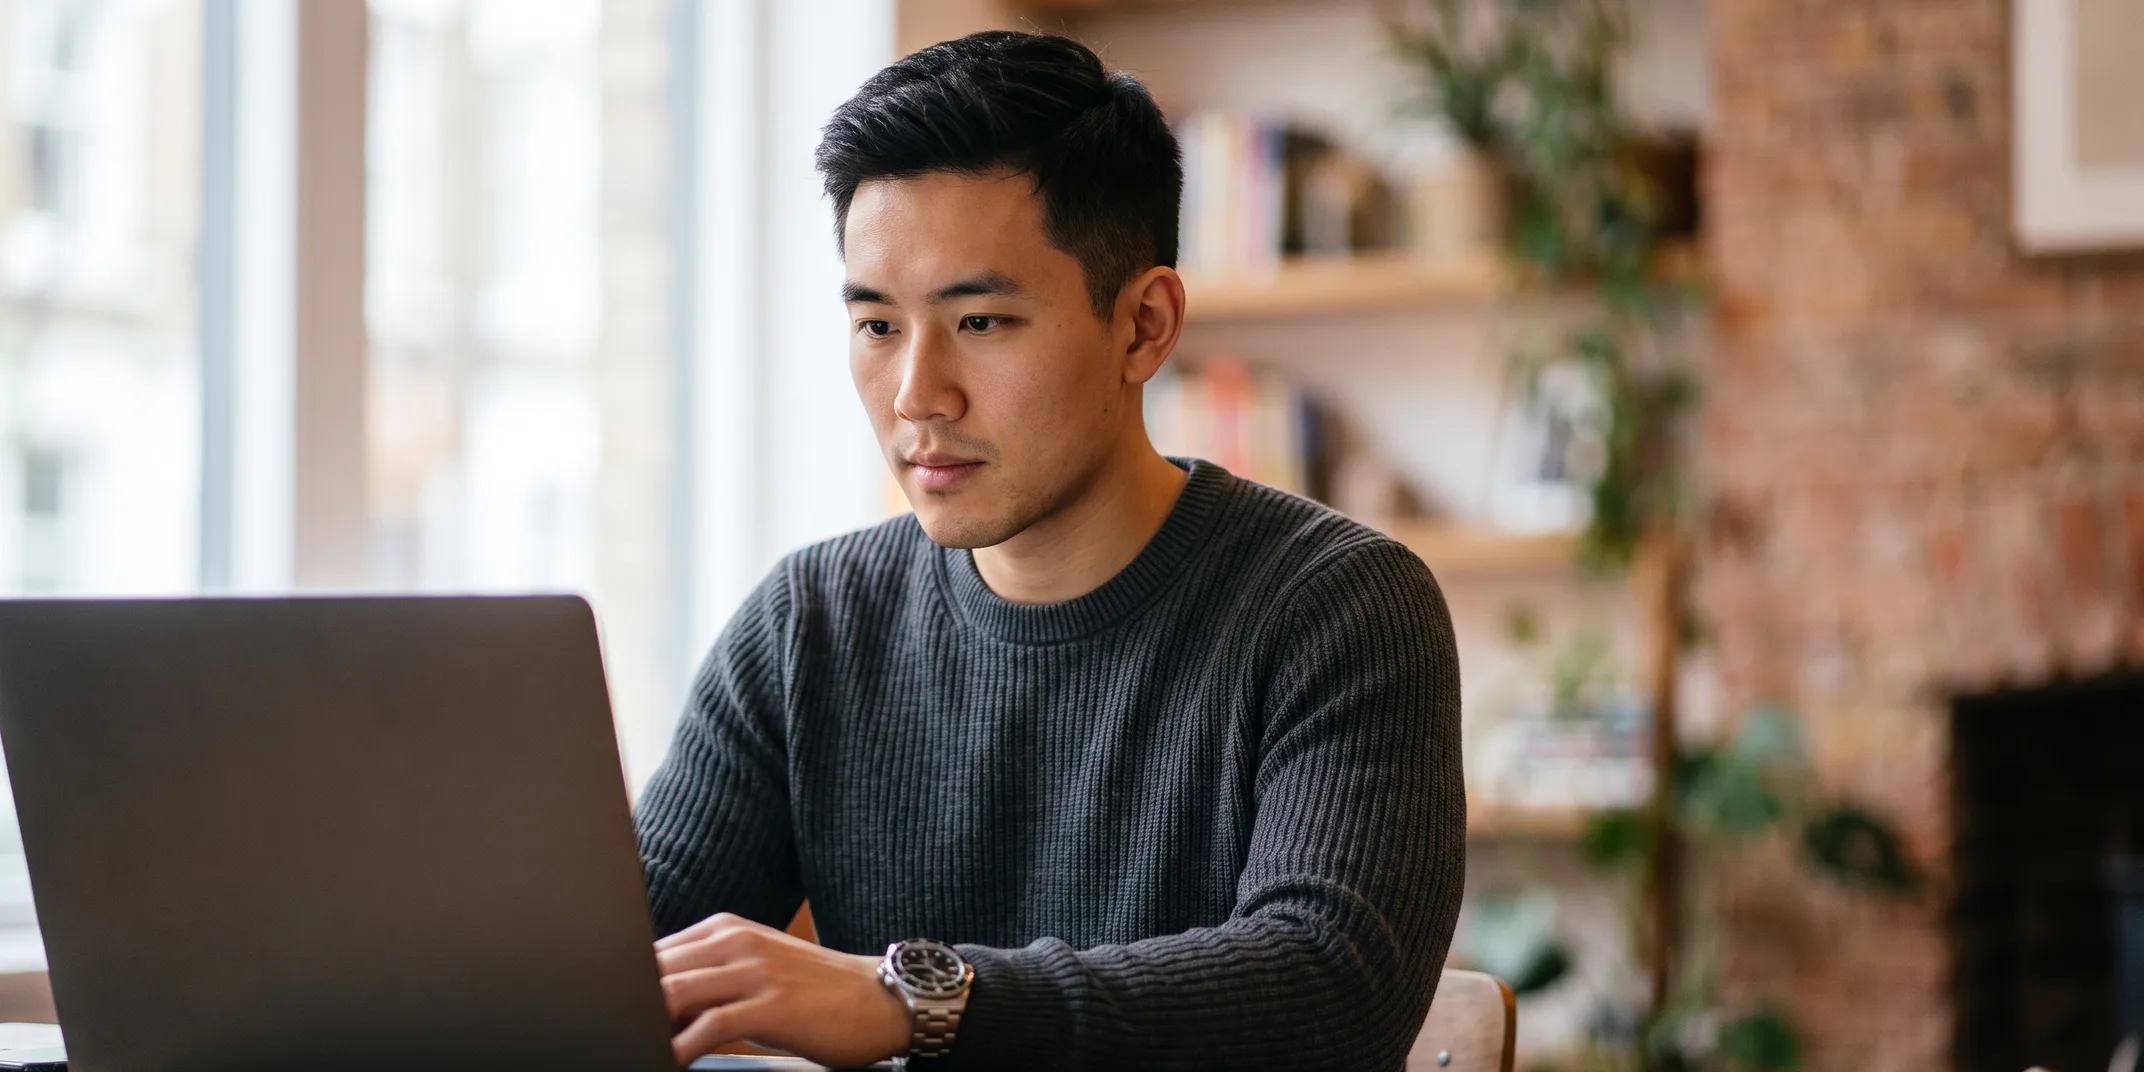
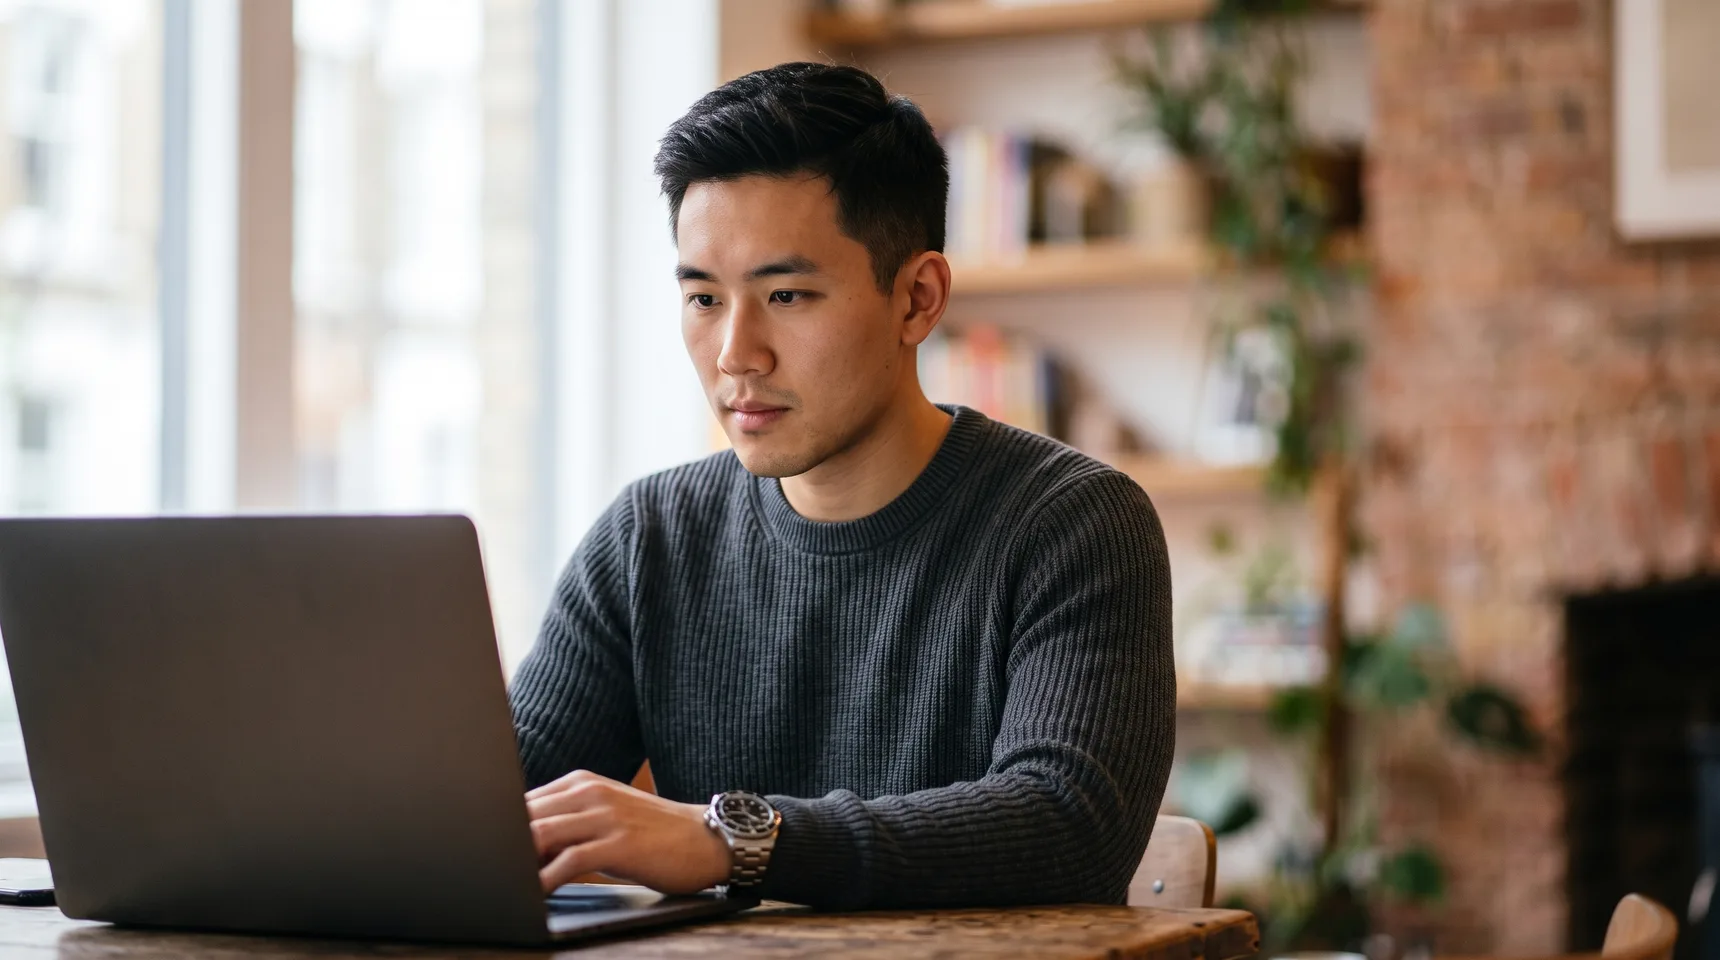
킬러 남자 사진 = 원본 프레임 통째로 (크롭 0) — 책상이 나와야 하고 사진 밑을 자르면 안 된다(사용자)
파일을 만들 때 원본 아래 100px(책상 앞부분)을 잘랐던 것이 뿌리 — 원본 2752×1536 전체를 860/1720w 로 재생성.
CSS 의 aspect-ratio·object-fit 도 제거(모든 기기에서 원본 비율 그대로).

Claude-Session: https://claude.ai/code/session_015ntztHY16dwUNcsGi34qxS

diff --git a/index.html b/index.html
@@ -556,9 +556,9 @@ section{padding:88px 0;}
   border-radius:20px; overflow:hidden;
   box-shadow:0 24px 50px -20px rgba(0,0,0,.5);
 }
-/* 2:1 = 파일 비율 그대로 — 21:9 로 눌렀더니 책상·손이 잘렸다(사용자 2026-08-27) */
-.killer-photo img{display:block; width:100%; height:auto; aspect-ratio:2/1; object-fit:cover; object-position:center 30%;}
-@media (max-width:600px){ .killer-photo img{aspect-ratio:3/2;} }
+/* 🔴 크롭 금지(사용자 2026-08-27) — 사진을 원본 프레임 «통째로» 보여 준다. 책상·손이 잘리면 안 된다.
+   파일도 원본 전체(2752×1536 → 860/1720w)라 aspect-ratio·object-fit 을 걸지 않는다. */
+.killer-photo img{display:block; width:100%; height:auto;}
 .killer-encourage{
   margin-top:16px; font-size:13.5px; color:rgba(255,255,255,.45);
   font-style:italic;
@@ -1290,9 +1290,9 @@ html{scrollbar-gutter:stable;}
     <!-- 킬러 사진 — 어두운 배경 «안», 가운데 860px (2026-08-27 사용자 정정) -->
     <figure class="killer-photo">
       <img src="killer-focus.webp"
-           srcset="killer-focus.webp 1072w, killer-focus-2x.webp 2144w"
+           srcset="killer-focus.webp 860w, killer-focus-2x.webp 1720w"
            sizes="(max-width:900px) 96vw, 860px"
-           width="1072" height="536" alt="" loading="lazy">
+           width="860" height="480" alt="" loading="lazy">
     </figure>
   </div>
 </section>
